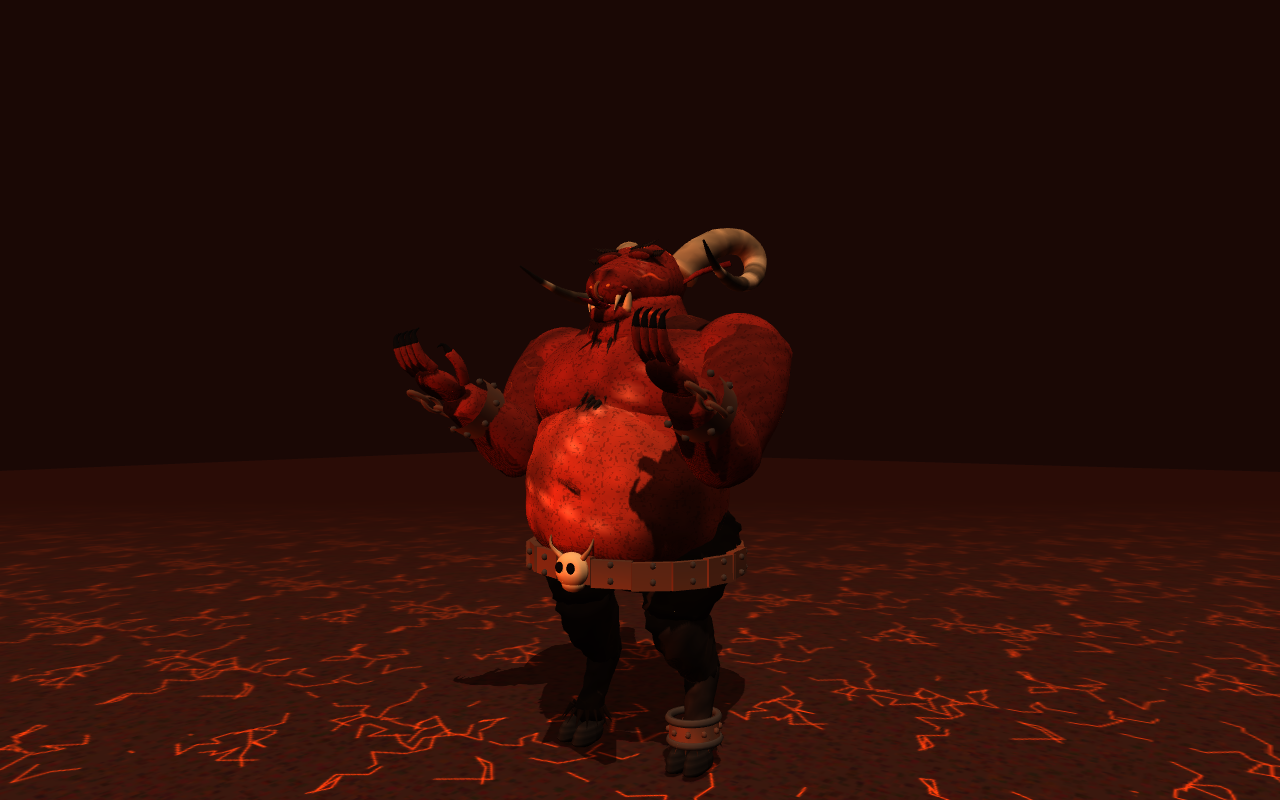
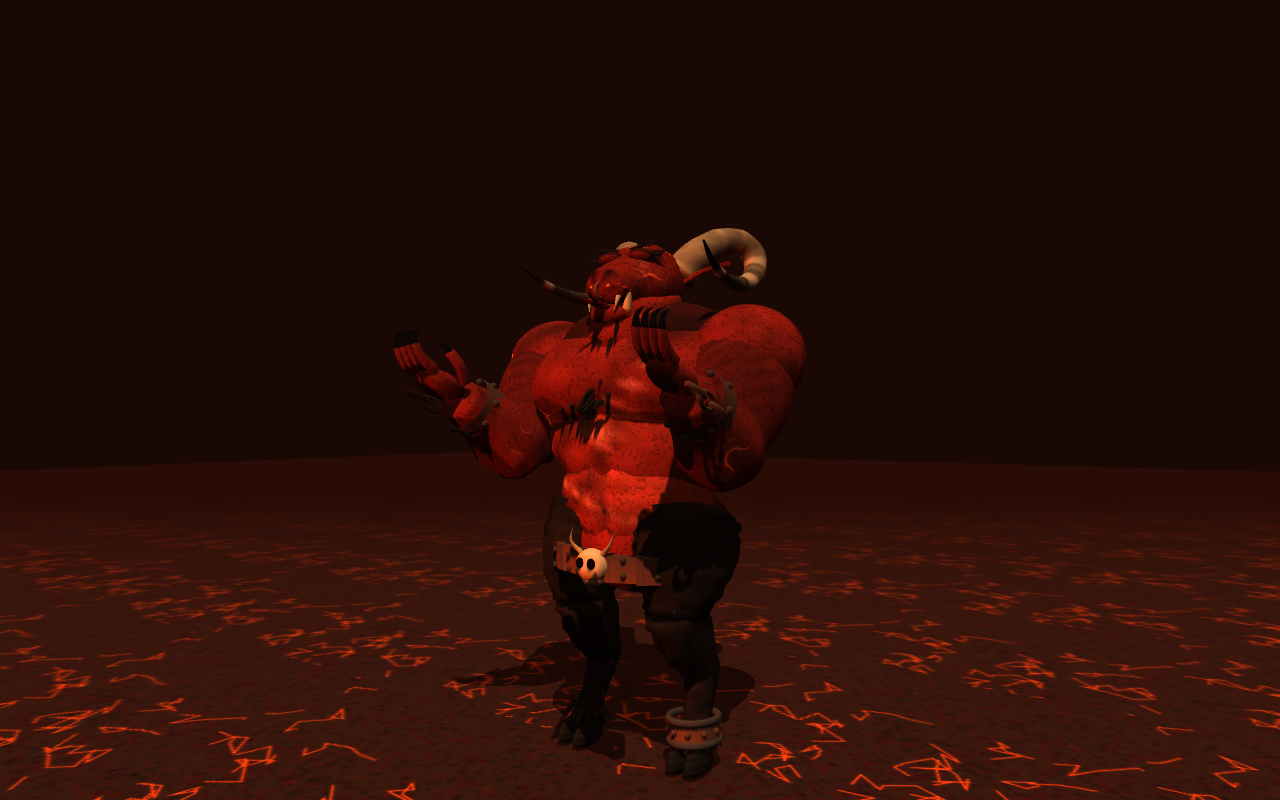
Дьяволос: не толстый — накачанный и массивный (пресс кубиками, грудные плитами, широчайшие, огромные дельты и трапеции, бицепсы с венами, талия уже плеч)
Claude-Session: https://claude.ai/code/session_01Mpy7conc3GY2y3zL4LDFSX

diff --git a/src/entities/DiabolosModel.js b/src/entities/DiabolosModel.js
@@ -1,9 +1,9 @@
 /**
  * DiabolosModel.js — модель Дьяволоса, огромного прикованного дьявола ада (DiabolosRules.js — правила, Diabolos.js — игра).
  *
- * Слова автора: «типичный дьявол, но с ОГРОМНЫМИ РОГАМИ, очень УПИТАННЫЙ, с КОПЫТАМИ… ОДНО КОПЫТО ПРИКОВАНО: большая ЦЕПЬ…
- * чтобы ЭПИЧНО выглядел». Анатомия: круглое тяжёлое брюхо со складками и пупком, обвисшая грудь, горб трапеций, короткая
- * толстая шея с подгрудком; козлиные (пальцеходящие) ноги в жёсткой чёрной шерсти, раздвоенные копыта с кольцами роста и
+ * Слова автора: «типичный дьявол, но с ОГРОМНЫМИ РОГАМИ, с КОПЫТАМИ (позже: «немного более худой — накачанный, но массивный»)… ОДНО КОПЫТО ПРИКОВАНО: большая ЦЕПЬ…
+ * чтобы ЭПИЧНО выглядел». Анатомия (слова автора: «не толстый — накачанный, но массивный»): пресс кубиками и косые мышцы, грудные плитами,
+ * широчайшие крыльями, гора трапеций, огромные дельты, бицепсы с венами; талия уже плеч; короткая толстая шея; козлиные (пальцеходящие) ноги в жёсткой чёрной шерсти, раздвоенные копыта с кольцами роста и
  * шпорами; руки толще бёдер героя ×35, пальцы с чёрными когтями; голова — широкая бычья морда, тяжёлые надбровья,
  * светящиеся глаза со зрачком-щелью, острые уши с надрывами, клыки и кабаньи бивни, козлиная бородка; огромные рога барана,
  * закрученные спиралью, с кольцами нароста и сколами, светлые у корня и чёрные к острию; на спине — костяные шипы по хребту;
@@ -139,37 +139,44 @@ function build() {
         return mix(c, SCAR, Math.min(1, s1 + s2 + s3 + s4));
     };
 
-    // ===== брюхо и таз (hips): огромное круглое брюхо, складки, пупок
-    put(S, 'hips', blob([0, 1.86, -0.16], [0.72, 0.66, 0.62], {
+    // ===== живот и таз (hips): накачанный пресс — кубики, косые мышцы, белая линия; талия уже плеч (силуэт буквой V)
+    put(S, 'hips', blob([0, 1.8, -0.02], [0.54, 0.5, 0.42], {
         w: 40, h: 30,
         bump: (nx, ny, nz) => {
-            let k = 1 + 0.06 * g1(ny + 0.45, 0.2) * (nz < 0 ? 1 : 0.3);                           // свисает вниз
-            k -= 0.05 * g1(ny + 0.15, 0.035) * Math.max(0, -nz);                                   // складка под пупком
-            k -= 0.03 * g1(ny - 0.35, 0.04) * Math.max(0, -nz);                                    // складка над ним
-            k -= 0.12 * g1(nx, 0.05) * g1(ny + 0.02, 0.05) * Math.max(0, -nz) ** 4;               // пупок
+            const f = Math.max(0, -nz);
+            let k = 1;
+            for (const by of [-0.42, -0.08, 0.26]) for (const bx of [-0.2, 0.2]) k += 0.075 * g1(nx - bx, 0.12) * g1(ny - by, 0.12) * f * f; // кубики пресса
+            k -= 0.05 * g1(nx, 0.035) * f * (ny > -0.7 ? 1 : 0);                                       // белая линия
+            k += 0.07 * g1(Math.abs(nx) - 0.78, 0.14) * g1(ny + 0.1, 0.4);                                // косые мышцы
+            k -= 0.08 * g1(nx, 0.04) * g1(ny + 0.25, 0.04) * f ** 4;                                     // пупок
             return k;
         },
-        color: (x, y, z) => scarLines(skinShade(BELLY)(x, y, z), x, y, z),
+        color: (x, y, z) => {
+            let c = scarLines(skinShade(BELLY)(x, y, z), x, y, z);
+            // тени между кубиками
+            const gx = g1(x, 0.02), gy = Math.max(g1(y - 1.68, 0.012), g1(y - 1.86, 0.012), g1(y - 2.03, 0.012)) * g1(Math.abs(x) - 0.12, 0.12);
+            return mul(c, 1 - 0.25 * Math.max(gx, gy) * (z < -0.2 ? 1 : 0));
+        },
     }));
-    put(S, 'hips', blob([0, 1.48, 0.06], [0.66, 0.38, 0.5], { color: skinShade(SKIN) })); // таз
+    put(S, 'hips', blob([0, 1.48, 0.06], [0.58, 0.38, 0.46], { color: skinShade(SKIN) })); // таз
     put(S, 'hips', blob([-0.26, 1.42, 0.3], [0.32, 0.36, 0.3], { color: skinShade(BACKC) })); // ягодицы
     put(S, 'hips', blob([0.26, 1.42, 0.3], [0.32, 0.36, 0.3], { color: skinShade(BACKC) }));
     // пояс из клёпаных железных пластин, череп-пряжка
     for (let i = 0; i < 18; i++) {
-        const a = (i / 18) * TAU, rx = 0.74, rz = 0.63, x = Math.sin(a) * rx, z = -Math.cos(a) * rz - 0.06;
+        const a = (i / 18) * TAU, rx = 0.62, rz = 0.52, x = Math.sin(a) * rx, z = -Math.cos(a) * rz + 0.02;
         const plate = tint(new THREE.BoxGeometry(0.26, 0.17, 0.05), (px, py) => mix(IRON, RUST, 0.3 + 0.6 * hash(i * 3 + Math.floor(py * 40)))).rotateY(-a);
         put(H, 'hips', plate.translate(x, 1.36 + 0.02 * Math.sin(a * 2), z));
         for (const dy of [-0.05, 0.05]) put(H, 'hips', tint(new THREE.SphereGeometry(0.022, 6, 4), IRON).translate(x * 1.05, 1.36 + dy, z * 1.05 - 0.003));
     }
     {   // череп-пряжка (кость) под брюхом
-        const at = [0, 1.36, -0.73];
+        const at = [0, 1.36, -0.53];
         put(H, 'hips', blob(at, [0.12, 0.11, 0.08], { color: BONE, bump: (nx, ny, nz) => 1 - 0.25 * g1(ny - 0.2, 0.15) * g1(Math.abs(nx) - 0.4, 0.15) * Math.max(0, -nz) }));
         put(H, 'hips', blob([at[0], at[1] - 0.09, at[2] + 0.01], [0.08, 0.05, 0.06], { color: mul(BONE, 0.85) }));
         for (const s of [-1, 1]) put(H, 'hips', blob([s * 0.045, at[1] + 0.02, at[2] - 0.07], [0.03, 0.035, 0.02], { color: [0.04, 0.02, 0.02] })); // глазницы
         for (const s of [-1, 1]) put(H, 'hips', hornAlong([v3(s * 0.08, at[1] + 0.07, at[2]), v3(s * 0.16, at[1] + 0.15, at[2] - 0.02), v3(s * 0.17, at[1] + 0.25, at[2] + 0.02)], 0.02, { rings: 8, sides: 6, c0: BONE, c1: [0.25, 0.2, 0.15] }));
     }
     // рваная кожаная повязка: передний и задний лоскуты
-    for (const [zz, sgn] of [[-0.62, -1], [0.62, 1]]) {
+    for (const [zz, sgn] of [[-0.52, -1], [0.58, 1]]) {
         const flap = new THREE.PlaneGeometry(0.62, 0.55, 8, 6);
         const P = flap.getAttribute('position');
         for (let i = 0; i < P.count; i++) {
@@ -183,33 +190,43 @@ function build() {
     // хребет-шипы низ спины
     for (let i = 0; i < 3; i++) put(H, 'hips', tint(coneGeo(), (x, y) => mix(BONE, HORN1, y)), aim(v3(0, 1.62 + i * 0.1, 0.52 - i * 0.02), v3(0, 0.4, 1), [0.04, 0.12, 0.04]));
 
-    // ===== середина (spine): верх брюха, бока, «ручки любви»
-    put(S, 'spine', blob([0, 2.12, -0.04], [0.76, 0.5, 0.56], {
+    // ===== середина (spine): широчайшие крыльями, зубчатые мышцы на рёбрах, верх пресса
+    put(S, 'spine', blob([0, 2.14, 0.02], [0.66, 0.5, 0.46], {
         w: 36, h: 24,
-        bump: (nx, ny, nz) => 1 + 0.06 * g1(ny + 0.3, 0.25) * g1(Math.abs(nx) - 0.9, 0.2) - 0.03 * g1(ny - 0.1, 0.05) * Math.max(0, -nz),
+        bump: (nx, ny, nz) => {
+            let k = 1 + 0.16 * g1(ny - 0.35, 0.35) * g1(Math.abs(nx) - 0.75, 0.3) * (nz > -0.4 ? 1 : 0.4);   // широчайшие (крылья спины)
+            for (let i = 0; i < 4; i++) k += 0.035 * g1(ny + 0.1 - i * 0.18, 0.05) * g1(Math.abs(nx) - 0.8, 0.12) * Math.max(0, -nz + 0.3); // зубчатые мышцы
+            for (const bx of [-0.2, 0.2]) k += 0.06 * g1(nx - bx, 0.12) * g1(ny + 0.5, 0.14) * Math.max(0, -nz) ** 2;               // верхние кубики
+            k -= 0.04 * g1(nx, 0.04) * Math.max(0, nz);                                                        // ложбина хребта
+            return k;
+        },
         color: (x, y, z) => scarLines(skinShade(mix(SKIN, BELLY, 0.5))(x, y, z), x, y, z),
     }));
     for (let i = 0; i < 4; i++) put(H, 'spine', tint(coneGeo(), (x, y) => mix(BONE, HORN1, y)), aim(v3(0, 1.95 + i * 0.12, 0.52), v3(0, 0.3, 1), [0.05, 0.16 + i * 0.02, 0.05]));
 
-    // ===== грудь и плечи (chest): широкая грудь, обвисшие грудные, горб трапеций
-    put(S, 'chest', blob([0, 2.5, 0.04], [0.86, 0.5, 0.55], {
-        w: 40, h: 28,
+    // ===== грудь и плечи (chest): мощные грудные плитами, огромные трапеции и дельты, спина буграми
+    put(S, 'chest', blob([0, 2.52, 0.04], [0.92, 0.5, 0.5], {
+        w: 44, h: 30,
         bump: (nx, ny, nz) => {
+            const f = Math.max(0, -nz), b = Math.max(0, nz);
             let k = 1;
-            k += 0.1 * g1(ny + 0.2, 0.25) * (g1(nx - 0.45, 0.22) + g1(nx + 0.45, 0.22)) * Math.max(0, -nz); // грудные (обвисли)
-            k -= 0.04 * g1(nx, 0.06) * Math.max(0, -nz);                                                    // ложбина
-            k += 0.12 * g1(ny - 0.7, 0.3) * Math.max(0, nz) * g1(nx, 0.6);                                  // горб трапеций
-            k -= 0.03 * g1(nx, 0.05) * Math.max(0, nz) * (ny < 0.6 ? 1 : 0);                                // ложбина хребта
+            const pec = (g1(nx - 0.42, 0.24) + g1(nx + 0.42, 0.24)) * g1(ny - 0.02, 0.3);
+            k += 0.16 * pec * f * (ny < -0.32 ? 0.35 : 1);                                                  // грудные плиты, чёткий нижний край
+            k -= 0.06 * g1(nx, 0.05) * f;                                                                   // ложбина между ними
+            k += 0.14 * g1(ny - 0.7, 0.3) * b * g1(nx, 0.6);                                                // горб трапеций
+            k += 0.07 * (g1(nx - 0.4, 0.2) + g1(nx + 0.4, 0.2)) * g1(ny - 0.1, 0.3) * b;                     // бугры спины (лопатки, ромбовидные)
+            k -= 0.04 * g1(nx, 0.05) * b * (ny < 0.6 ? 1 : 0);                                              // ложбина хребта
             return k;
         },
         color: (x, y, z) => {
             let c = scarLines(skinShade(SKIN)(x, y, z), x, y, z);
-            for (const s of [-1, 1]) c = mix(c, [0.3, 0.08, 0.06], g1(Math.hypot(x - s * 0.38, y - 2.33), 0.04) * (z < 0 ? 1 : 0)); // соски
+            for (const s of [-1, 1]) c = mix(c, [0.3, 0.08, 0.06], g1(Math.hypot(x - s * 0.42, y - 2.4), 0.03) * (z < 0 ? 1 : 0)); // соски
+            c = mul(c, 1 - 0.22 * g1(y - 2.27 + Math.abs(x) * 0.12, 0.012) * (z < -0.25 && Math.abs(x) < 0.75 ? 1 : 0)); // тень под грудными
             return c;
         },
     }));
-    put(S, 'chest', blob([0, 2.82, 0.1], [0.6, 0.24, 0.42], { color: skinShade(BACKC) })); // трапеции
-    for (const s of [-1, 1]) put(S, 'chest', blob([s * 0.72, 2.7, 0.08], [0.3, 0.3, 0.32], { color: skinShade(SKIN) })); // дельты
+    put(S, 'chest', blob([0, 2.84, 0.1], [0.68, 0.3, 0.44], { color: skinShade(BACKC) })); // трапеции — горой к шее
+    for (const s of [-1, 1]) put(S, 'chest', blob([s * 0.78, 2.7, 0.08], [0.36, 0.35, 0.37], { color: skinShade(SKIN), bump: (nx, ny, nz) => 1 + 0.05 * g1(nz, 0.3) * g1(ny, 0.5) })); // дельты (три пучка)
     // шипы по хребту — выше и длиннее к загривку
     for (let i = 0; i < 6; i++) put(H, 'chest', tint(coneGeo(), (x, y) => mix(BONE, HORN1, y * 1.2)), aim(v3(0, 2.3 + i * 0.1, 0.55 - Math.max(0, i - 3) * 0.04), v3(0, 0.5, 1), [0.06, 0.2 + i * 0.04, 0.06]));
     // клочья шерсти на груди и плечах
@@ -326,12 +343,13 @@ function build() {
         const s = sd === 'L' ? -1 : 1;
         const sh = JOINTS['sh' + sd], el = JOINTS['el' + sd], wr = JOINTS['wr' + sd];
         put(S, 'sh' + sd, sweep([v3(sh[0], sh[1] + 0.05, sh[2]), v3((sh[0] + el[0]) / 2 + s * 0.04, (sh[1] + el[1]) / 2, sh[2] + 0.02), v3(el[0], el[1], el[2])],
-            keys([[0, 0.3, 0.3, 0], [0.45, 0.27, 0.29, 0], [1, 0.2, 0.21, 0]]), { rings: 14, sides: 20,
-                bump: (t, ang) => 1 + 0.12 * g1(t - 0.45, 0.2) * g1(ad(ang, -Math.PI / 2), 0.6) + 0.06 * g1(t - 0.4, 0.2) * g1(ad(ang, Math.PI / 2), 0.6),
+            keys([[0, 0.33, 0.33, 0], [0.45, 0.31, 0.32, 0], [1, 0.21, 0.22, 0]]), { rings: 16, sides: 22,
+                bump: (t, ang) => 1 + 0.22 * g1(t - 0.5, 0.18) * g1(ad(ang, -Math.PI / 2), 0.55) + 0.12 * g1(t - 0.4, 0.2) * g1(ad(ang, Math.PI / 2), 0.6) + 0.02 * Math.sin(t * 40 + ang * 3) * g1(ad(ang, -Math.PI / 2), 0.4), // бицепс горой, трицепс, вены
                 color: (t, ang) => mul(mix(SKIN, BACKC, g1(ad(ang, Math.PI / 2), 1) * 0.6), 0.9 + 0.1 * Math.sin(t * 50 + ang * 8)) }));
         put(S, 'el' + sd, sweep([v3(el[0], el[1] + 0.04, el[2]), v3((el[0] + wr[0]) / 2, (el[1] + wr[1]) / 2, (el[2] + wr[2]) / 2 - 0.02), v3(wr[0], wr[1], wr[2])],
-            keys([[0, 0.22, 0.22, 0], [0.3, 0.24, 0.21, 0], [1, 0.15, 0.13, 0]]), { rings: 12, sides: 18,
-                bump: (t, ang) => 1 + 0.03 * Math.sin(ang * 6 + t * 4) * g1(t - 0.4, 0.3), color: (t, ang) => mix(SKIN, BACKC, g1(ad(ang, Math.PI / 2), 1) * 0.5) }));
+            keys([[0, 0.24, 0.24, 0], [0.28, 0.28, 0.24, 0], [1, 0.16, 0.14, 0]]), { rings: 14, sides: 20,
+                bump: (t, ang) => 1 + 0.05 * Math.sin(ang * 6 + t * 4) * g1(t - 0.35, 0.3) + 0.03 * Math.max(0, Math.sin(t * 9 + ang * 2)) ** 8, // мышцы предплечья, вены
+                color: (t, ang) => mul(mix(SKIN, BACKC, g1(ad(ang, Math.PI / 2), 1) * 0.5), 1 - 0.18 * Math.max(0, Math.sin(t * 9 + ang * 2)) ** 8) }));
         // ржавые кандалы на запястье + обрывок цепи (3 звена висят)
         const cuff = new THREE.CylinderGeometry(0.2, 0.2, 0.17, 20, 1, true);
         put(H, 'el' + sd, tint(cuff, (x, y, z) => mix(IRON, RUST, 0.25 + 0.6 * hash(Math.floor(Math.atan2(z, x) * 6) + Math.floor(y * 30)))).translate(wr[0], wr[1] + 0.14, wr[2]));

diff --git a/src/game/DiabolosRules.js b/src/game/DiabolosRules.js
@@ -2,7 +2,7 @@
  * DiabolosRules.js — Дьяволос, огромный прикованный дьявол ада: чистые правила и числа (без THREE, проверяются в node).
  *
  * Слова автора: «В аду, если какое-то время пройти, можно заметить ОГРОМНОГО ДЬЯВОЛА. Размером как страшный монстр
- * (пентаграмма монстра), но В 5 РАЗ БОЛЬШЕ… с ОГРОМНЫМИ РОГАМИ, очень УПИТАННЫЙ, с КОПЫТАМИ. ОДНО КОПЫТО У НЕГО ПРИКОВАНО:
+ * (пентаграмма монстра), но В 5 РАЗ БОЛЬШЕ… с ОГРОМНЫМИ РОГАМИ, накачанный и массивный (автор поправил: «не толстый»), с КОПЫТАМИ. ОДНО КОПЫТО У НЕГО ПРИКОВАНО:
  * большая ЦЕПЬ. Обычно просто СИДИТ И СПИТ. Можно ПОТРЕВОЖИТЬ — тогда он ходит… дойдя до грани, цепь держит, он ЗЛИТСЯ.
  * Дьявол БЕССМЕРТЕН: его вообще нельзя никак убить, даже «Дай» не берёт (он СОЗДАЛ «Дай» — бог Дьяволос создал чёрную
  * магию, был наказан и помещён в подземный мир). ПЛЮЁТСЯ ОГНЁМ — В 5 РАЗ БОЛЬШЕ и ДЛИННЕЕ, чем у дракона, или ШАРАМИ ОГНЯ —
@@ -15,7 +15,7 @@
  *   | мерка                   | монстр (MonsterForm) | Дьяволос (×5)                 |
  *   |-------------------------|----------------------|-------------------------------|
  *   | рост до макушки         | 24,5 м               | 122,5 м (рога выше ещё ~25 м) |
- *   | радиус тела             | 3,36 м               | 16,8 м → 21 м (упитанный: брюхо 25 м) |
+ *   | радиус тела             | 3,36 м               | 16,8 м → 21 м (массивный: грудь 32 м в ширину) |
  *   | шаг вверх без прыжка    | 7,35 м               | 36,75 м                       |
  *   | досягаемость кулака     | 4,2 м (FIST ×)       | 52 м                          |
  *
@@ -30,8 +30,8 @@ export const DEVIL = {
     NAME: 'Дьяволос',
     VS_MONSTER: 5,           // ×5 к монстру пентаграммы
     HEIGHT: 24.5 * 5,        // 122,5 м — макушка стоящего (без рогов)
-    RADIUS: 21,              // м — тело для стен, игроков и толпы (×5 монстра — 16,8 м, но он упитанный: брюхо шире — замер Box3)
-    BELLY_R: 25,             // м — брюхо (тело для зарядов и ударов: полуширина брюха 0,72 × 35)
+    RADIUS: 21,              // м — тело для стен, игроков и толпы (×5 монстра — 16,8 м; массивный: плечи шире — замер Box3)
+    BELLY_R: 23,             // м — корпус для зарядов и ударов (полуширина груди 0,92 × 35 у плеч, талия 0,54 × 35)
     MODEL_H: 3.5,            // рост формы модели (в единицах героя): группа ×35
     get SCALE() { return this.HEIGHT / this.MODEL_H; }, // 35
     SEAT_MIN_R: 90,

diff --git a/CLAUDE.md b/CLAUDE.md
@@ -257,9 +257,9 @@
 - **Книга «Бог Дьяволос»** (`LoreBooks.js`, id `diabolos`, гравюры `diabolos`/`diabolosChain` в `LorePages.js`): 8-я книга истории; у библиотек 7 стендов, поэтому она по координатам места подменяет одну из старых (`loreForSite`, `ROTATING`) — у части библиотек она есть, у части нет; башня тоже. Слово «ад» в книге не говорится — «подземный мир».
 
 ## Дьяволос — огромный прикованный дьявол ада (просьба автора)
-Автор: «ОГРОМНЫЙ ДЬЯВОЛ… как страшный монстр, но В 5 РАЗ БОЛЬШЕ… ОГРОМНЫЕ РОГА, УПИТАННЫЙ, КОПЫТА… одно копыто ПРИКОВАНО цепью… обычно СИДИТ И СПИТ… потревожили — ходит, но цепь держит, он ЗЛИТСЯ… БЕССМЕРТЕН, даже «Дай» не берёт (он его создал)… огонь в 5 раз больше и длиннее драконьего… ШАРЫ ОГНЯ ЛОМАЮТ Protection и Protection Maxima: тебе ничего, но защита сломана — каждый раз заново»; «до 20 анимаций с мимикой… интересный ПЕРСОНАЖ… высовывает язык и троллит».
+Автор: «ОГРОМНЫЙ ДЬЯВОЛ… как страшный монстр, но В 5 РАЗ БОЛЬШЕ… ОГРОМНЫЕ РОГА, КОПЫТА… (позже автор: «немного более худой — накачанный, но массивный»)… одно копыто ПРИКОВАНО цепью… обычно СИДИТ И СПИТ… потревожили — ходит, но цепь держит, он ЗЛИТСЯ… БЕССМЕРТЕН, даже «Дай» не берёт (он его создал)… огонь в 5 раз больше и длиннее драконьего… ШАРЫ ОГНЯ ЛОМАЮТ Protection и Protection Maxima: тебе ничего, но защита сломана — каждый раз заново»; «до 20 анимаций с мимикой… интересный ПЕРСОНАЖ… высовывает язык и троллит».
 - Файлы: `DiabolosRules.js` (числа `DEVIL`, `WAKE`, `MOVES`/`MOVE_IDS`, `FIRE`, `BALL`, цепь `ChainRope` + `leash`, `wakes`, `chooseMove`, бессмертие `DEVIL_VS`/`devilVerdict`, щит `ballVerdict`, место `seatFrom`), `Diabolos.js` (`g.diabolos`: сон/пробуждение/ходьба `crowdStep`, ходы, струя, шары, по мне — `_meSlam/_meBall/_hurtFire`, хват, сеть `dvl`/`dvb`, сохранение `woke`), `DiabolosActs.js` (характер: 26 поступков `ACTS`/`ACT_IDS` — только дописывать, ситуации `SITUATIONS`, `pickAct`, мимика `moodFace/moveFace`), `entities/DiabolosModel.js` (модель на `FarShape`: кожа-шейдер с трещинами жара, «твёрдое», свечение — 3 отрисовки; цепь `InstancedMesh` + якорь = 5; лицо: брови, веки каждого глаза, зрачки, уши, верхняя губа-оскал, ноздри, раздвоенный язык из 3 суставов), `audio/DiabolosSounds.js` (заранее, `SoundManager.playDevil`, тема — `devilTheme`).
-- Мерки: монстр пентаграммы ×5 — 122,5 м до макушки (рога до ~134 м), тело 21 м (брюхо 25 м), группа ×35 от формы ростом 3,5. Струя: дракон силы 1 × 5 = 115 м, у конца 23 м. Шар Ø 6 м, 28–38 м/с, взрыв 14 м. Цепь 44 звена по 3,6 м (шаг 1,82), ход 70 м от столба.
+- Мерки: монстр пентаграммы ×5 — 122,5 м до макушки (рога до ~134 м), накачанный и массивный (пресс кубиками, талия уже плеч), тело 21 м (корпус 23 м), группа ×35 от формы ростом 3,5. Струя: дракон силы 1 × 5 = 115 м, у конца 23 м. Шар Ø 6 м, 28–38 м/с, взрыв 14 м. Цепь 44 звена по 3,6 м (шаг 1,82), ход 70 м от столба.
 - Место — `HellMap.hellPlan`: `devilSeat` (котловина r 90), столб цепи в середине (`chainAnchor`) — сидит в 40 м от столба лицом к дороге прибытия (`seatFrom`, `SEAT_OFF`); вдали (> 900 м от всех) выгружен.
 - Убить можно ТОЛЬКО божественным мечом (тайна игры; меч — `DivineSword.js`, другая сессия): `g.diabolos.bladeHit(a, b)` → точка касания лезвия/пути меча, `pierce(point, by, {via: 'hand'|'swarm'})` — хост; гость шлёт `pierce`. Смерть 20 с (`DEATH`, `deathPhase`: shock → agony → fall → ash): рана светится и расползается трещинами света (шейдер `devilWound`: `uWound/uWoundK/uDissolve`, без новых источников света), держится за рану, ревёт, бьёт землю, цепь лопается (`ChainRope.free`), на колени, осыпается золой, вспышка, пепел столбом вверх; потом тишина, `diabolosDead` в сохранении (`snapshot.dead`), котловина пуста, цепь лежит, из пепла — 4 сундука босса (`room 'diabolos'` → `Items.lootChest`: сильнейшие пентаграммы, высшие вещи, ключ), ачивка `devilSlayer` (+500, входит в «Высший маг»). Держал игрока — роняет. В Творческом у края котловины (25 м) лежит один божественный меч (`_creativeSword`, id `divine-creative`).
 - Всё остальное его не убивает: удар злит (ярость, на миг сбивает дыхание); каждое «не действует» — с причиной в журнал заклинаний. «Инспириус», «Бум» (и слабее «Тотальное разрушение Максима») — `STUN`/`godStrike`: растерян 2–4 с (без атаки, рёв боли), потом ярость `rage` (+0,35, гаснет за 75 с) — `rageTempo`: паузы и кулдауны короче, струя дольше, хват чаще. Ачивка `devilWoke` «Разбудил дьявола» (+100, `extra`: для «Высшего мага» не нужна — `HIGH_IDS`). Новое заклинание/оружие — проверь категорию в `devilVerdict`; новый поиск целей — `g.diabolos` (`targets/hit/hitAt/hitRay`, в дуэли вид `'Y'`).
